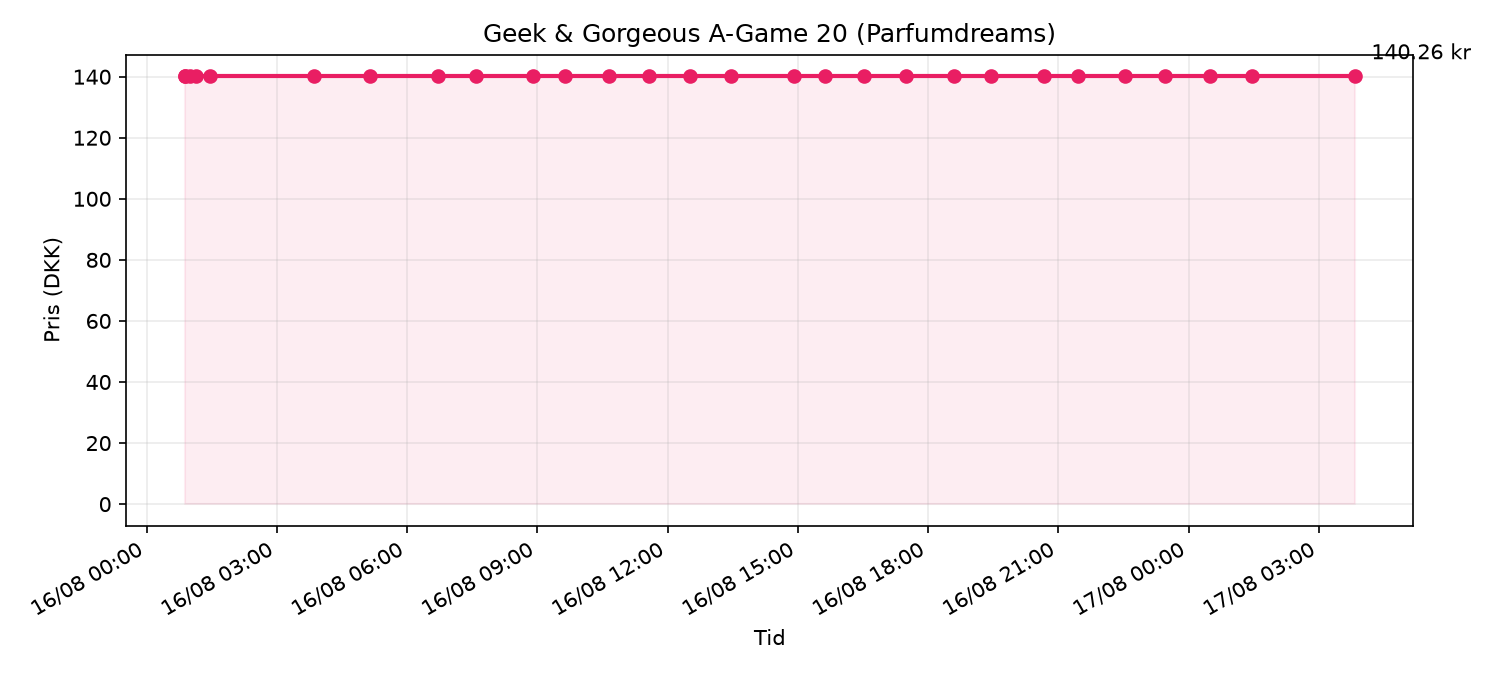
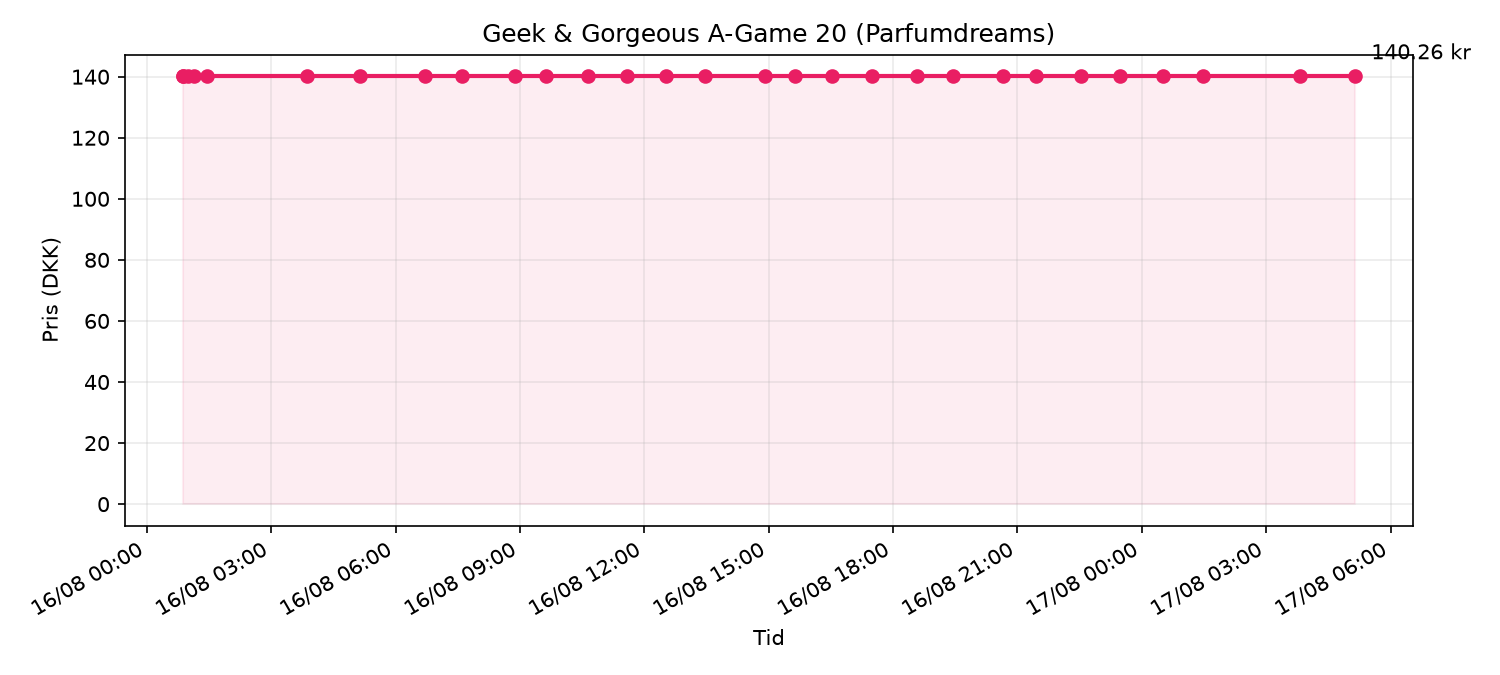
price check 2026-08-17T03:07Z

diff --git a/data/price_chart.html b/data/price_chart.html
@@ -13,7 +13,7 @@
 </head>
 <body>
   <h1>Geek & Gorgeous A-Game 20 (Parfumdreams)</h1>
-  <p class="meta">Senest tjekket: 17/08/2026 03:49 · Pris: <strong>140.26 kr</strong> · på lager</p>
+  <p class="meta">Senest tjekket: 17/08/2026 05:07 · Pris: <strong>140.26 kr</strong> · på lager</p>
   
   <p><a href="https://www.parfumdreams.dk/Geek-Gorgeous/Samlinger/101-aktive-stoffer/A-Game-20-Serum/index_137083.aspx?variation=221879">Åbn produkt på Parfumdreams</a></p>
   <img src="price_chart.png" alt="Prisgraf">
